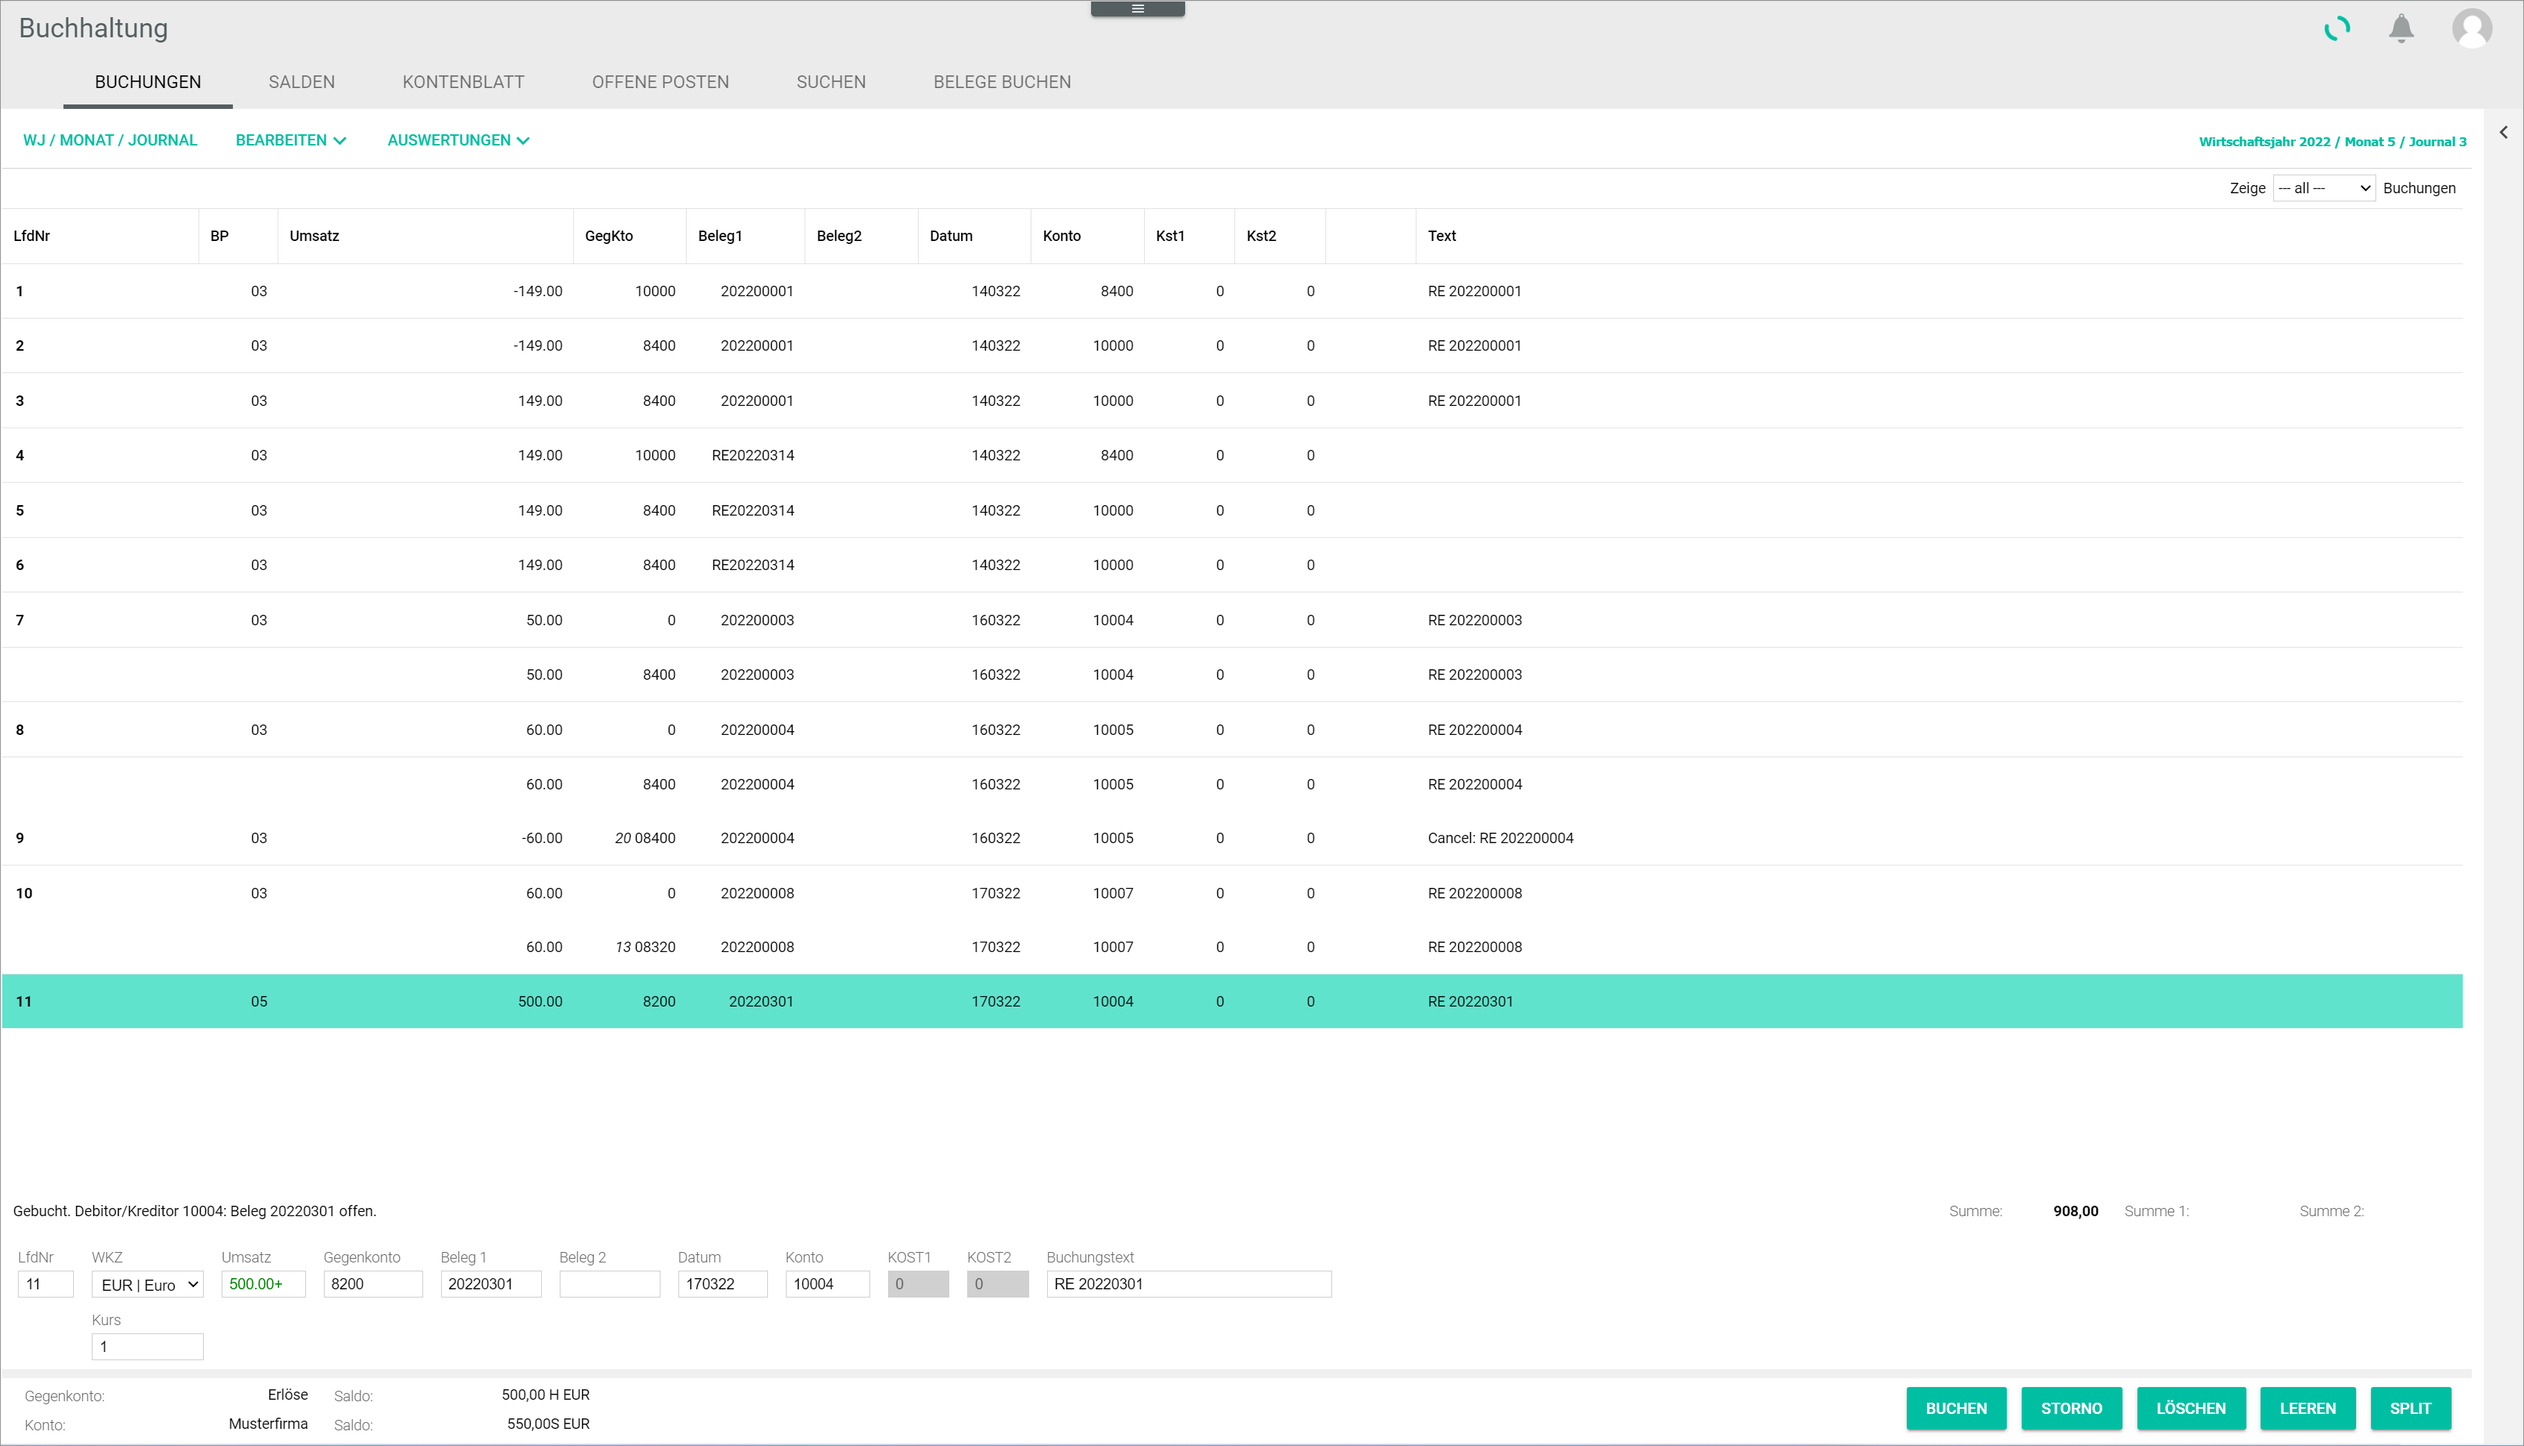
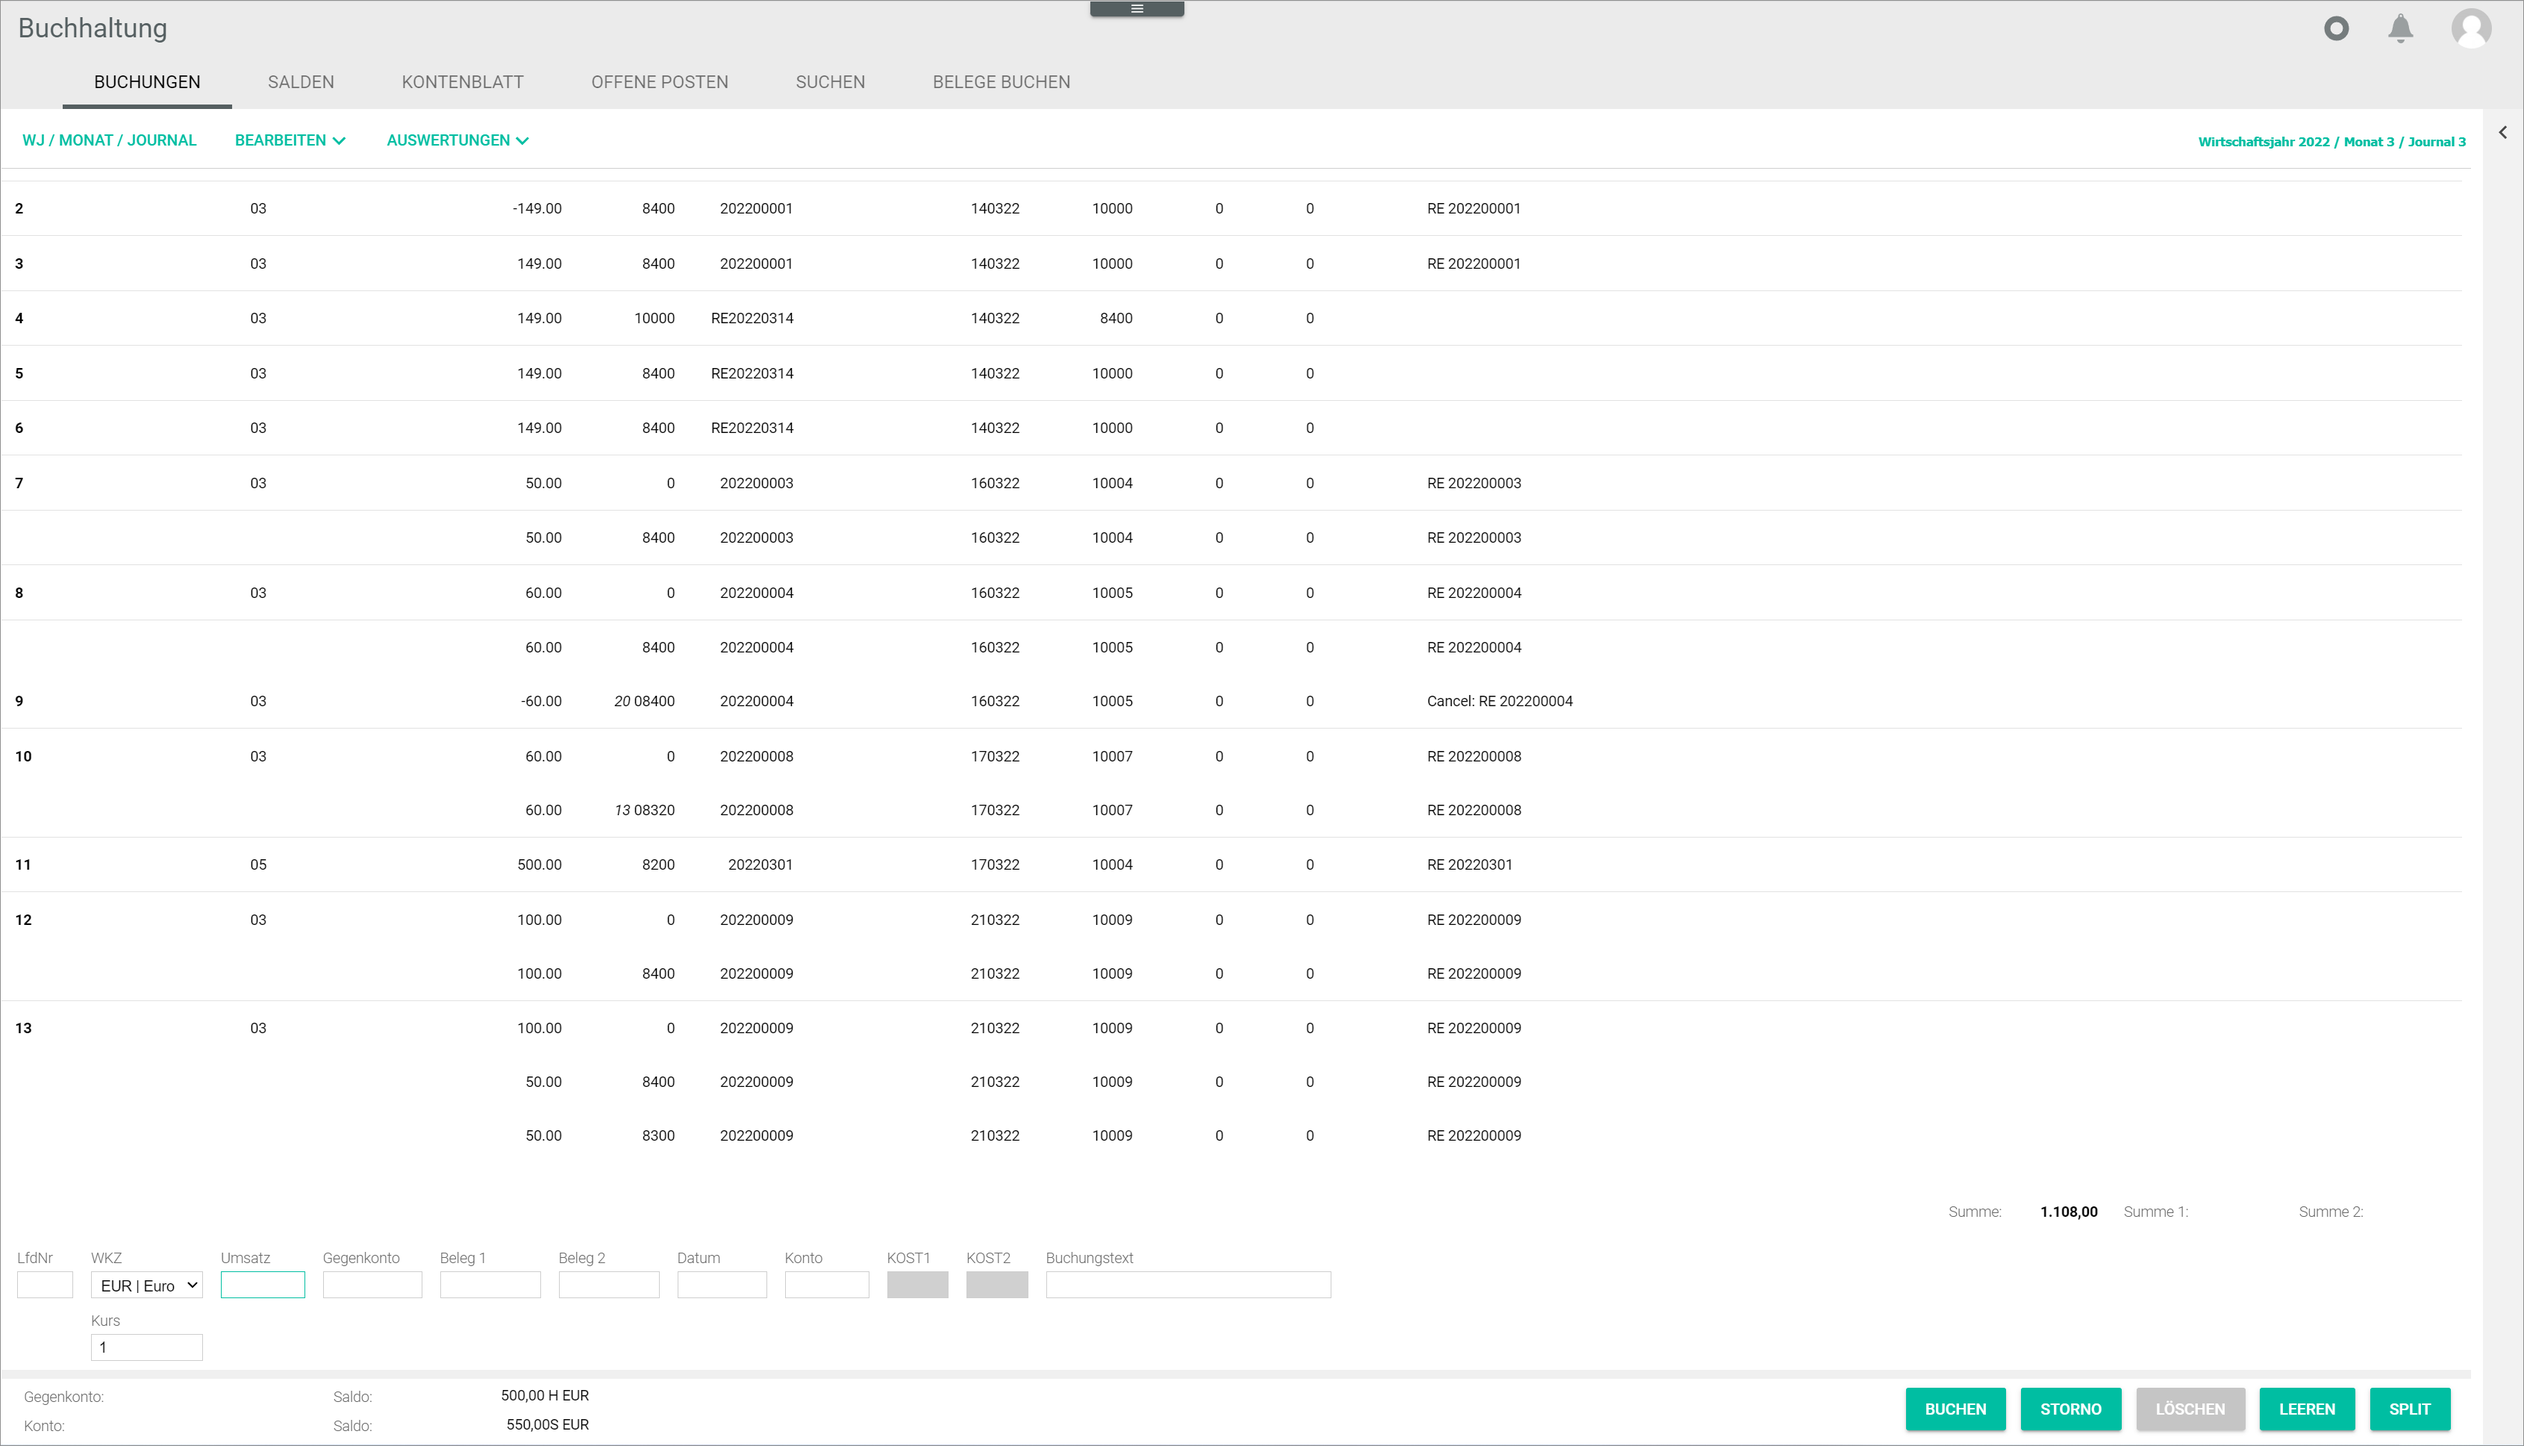
ACD-432
Procedure corrected, intro added, screenshots changed

diff --git a/Accounting/Operation/09_SplitBooking.md b/Accounting/Operation/09_SplitBooking.md
@@ -2,20 +2,21 @@
 
 # Split a booking
 
-The [SPLIT] button in the *BOOKINGS* tab allows to
+In some occasions, it may be necessary to split a booking to keep track of different items separately, for example if an invoice includes products with different tax rates or if total costs must be divided into two or more cost centres. Split bookings can affect both debit and credit accounts, that is, incoming and outgoing invoices.
 
-- information about the consequences of a split booking
+The [SPLIT] button in the *BOOKINGS* tab allows to split bookings during the manual booking process. For detailed information about how to create a manual booking, see [Create a manual booking](05_CreateManualBooking).
 
-- Explain briefly why a split booking is important, what it is used for and at what time.
+Once the splitting has been performed, the different split (partial) bookings are assigned to the corresponding accounts. The split bookings are then displayed in the bookings list underneath the main booking.
 
-> [Info]
+> [Info] Splitting a booking must be performed during the manual booking process. When splitting an invoice after the booking has been automatically registered following a business transaction or after it has been manually created, the system creates a copy of the existing main booking with the newly assigned contra accounts.
+
+[comment]: <> (Flo in Video aus Belege Buchen tab, aber wann ist es üblicherweise gemacht?)
 
 ## Prerequisites
 
 - The accounting is configured via the configuration wizard, see [Run the Accounting Wizard](01_RunAccountingWizard.md).
 - A valid fiscal year is created, see [Create fiscal year](04_ManageFiscalYear.md#create-a-fiscal-year).
 - A fiscal year is selected, see [Select fiscal year](01_SelectFiscalYear.md).
-- A booking have been created, see [05_Create a manual booking](05_CreateManualBooking).
 
 ## Procedure
 
@@ -23,23 +24,39 @@ The [SPLIT] button in the *BOOKINGS* tab allows to
 
 ![Split booking](/Assets/Screenshots/Accounting/Book/Bookings/Bookings_SplitBooking.png "[Split booking]")
 
-1. Select the booking to be split from the list in the *Bookings* tab.
+1. Select the appropriate currency for the booking in the  *Currency code* drop-down list.
 
-2. The existing booking details are displayed in the input line fields.
+  > [Info] The booking numbers must be sequential and are added by the system automatically.
 
-3. Click the *SPLIT* button.  
+2. Enter the total invoice value in the *Turnover* field.
+
+3. Enter the date for the manual booking in the *Date* field. Date format must be TTMMJJ or TT.MM.JJ.
+
+4. Enter a personal account number in the *Account* field, that is, a debtor (customer) or a creditor (provider) account number.
+
+  > [Info] Note that the fields *Date* and *Account* must be filled out to be able to split a booking. The *Contra Account* field can be specified when splitting the booking.
+
+5. Enter any other relevant fixed booking information in the corresponding fields.
+
+  > [Info] Even though it is not compulsory, it is highly recommended to fill in the *Receipt 1* field, as the system identifies and groups together any subsequent bookings taking this field as reference.
+
+6. Click the *SPLIT* button.  
 The *Split booking* window is displayed.  
 
   ![Split booking window](/Assets/Screenshots/Accounting/Book/Bookings/Bookings_SplitBooking_Window.png "[Split booking window]")
 
-4. Split the booking as necessary assigning each split (partial) booking to the corresponding contra account.
+7. Split the booking as necessary assigning each split booking to the corresponding contra account.
 
-5. Click the [BOOK] button after every split (partial) booking.  
-A message confirms each split booking. The split bookings are listed underneath the main booking in the *Split booking* window.
+8. Click the [BOOK] button after each split booking.  
+A message in the top left corner of the *Split booking* window confirms each split booking. The split bookings are now listed underneath the main booking in the *Split booking* window.
 
   ![Split booking window](/Assets/Screenshots/Accounting/Book/Bookings/Bookings_Booking_Split.png "[Split booking window]")
 
-[comment]: <> (Double check wording/term. Check screenshots dimensions!)
+  > [Info] When the total invoice amount has been divided, the remainder will equal 0. At this point, the [SAVE] button is activated and can be selected.
+
+9. Click the [SAVE] button.  
+A message in the top left corner of the *Split booking* window confirms that the split bookings have been recorded.
+
 
 ## Next steps
 
@@ -53,5 +70,7 @@ A message confirms each split booking. The split bookings are listed underneath 
 ## See also
 
   - [User Interface Accounting](/Accounting/UserInterface/00_UserInterface.md)
+  - [Manage receipts](10_ManageReceipts.md)
+  - [Dokumente - Neue / Verbuchte Dokumnete](#to_be_completed)
   - [Manage open items](03_ManageOpenItems.md)
   - [Zahlungsabwicklung Offene Posten](#to_be_completed)
